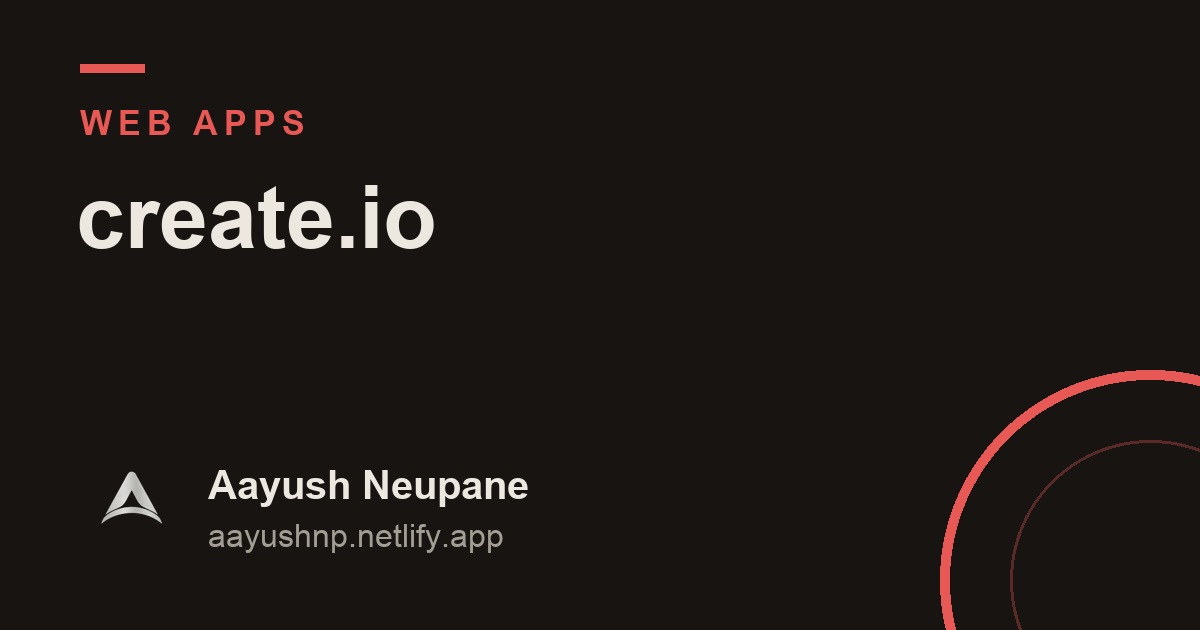
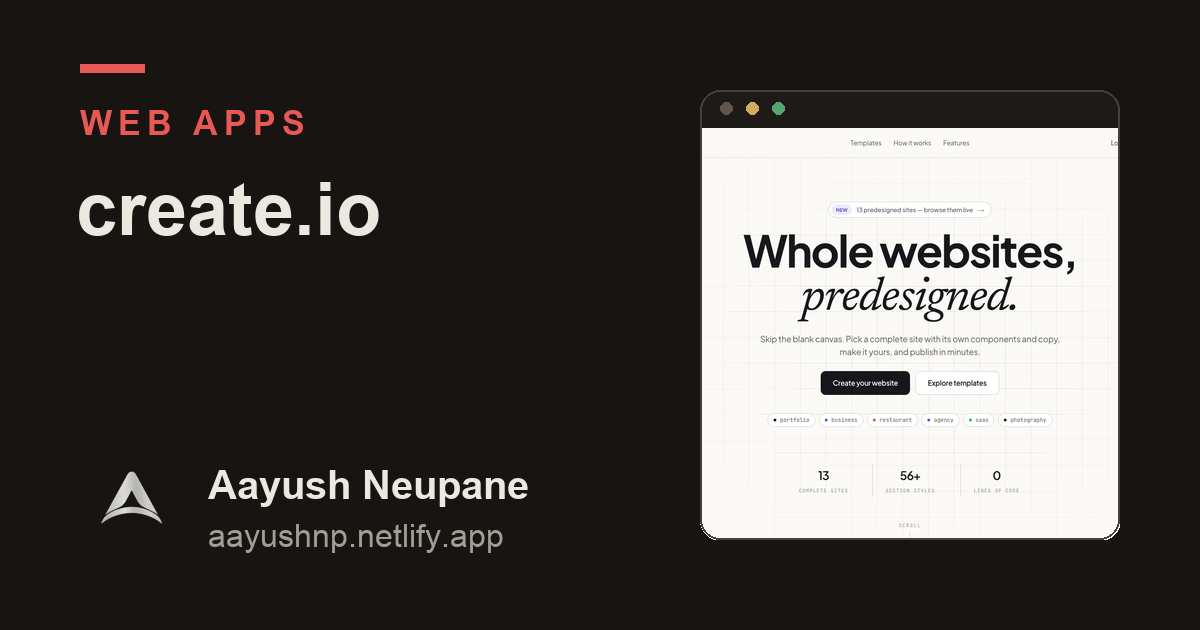
Circular accent dial, OG cards with screenshots

Changed region(s): [[0.5858, 0.1206, 1.0, 1.0], [0.0617, 0.2714, 0.37, 0.3921]]

diff --git a/src/components/ThemeToggle/AccentPicker.jsx b/src/components/ThemeToggle/AccentPicker.jsx
@@ -1,22 +1,41 @@
 import { ACCENTS, useSettings } from '../../context/SettingsContext.jsx';
 
-// Trial: each accent is a tiny orbit — a planet dot with a faint ring that
-// turns into a spinning dashed orbit with a satellite when active. Reuses
-// the loader's orbit animation (already reduced-motion safe). Self-contained:
-// delete this file, its Navbar imports, and the ACCENTS block in
-// SettingsContext to remove the experiment.
+// Trial: a circular spinner dial — four planet dots at compass points on a
+// slow-spinning dashed orbit (reuses the loader's reduced-motion-safe
+// animation). Clicking a planet selects that accent; the satellite rides the
+// active color. Self-contained: delete this file, its Navbar imports, and
+// the ACCENTS block in SettingsContext to remove the experiment.
+const ORDER = ['crimson', 'amber', 'emerald', 'indigo'];
+const SPOTS = {
+  crimson: 'left-1/2 top-0 -translate-x-1/2',
+  amber: 'right-0 top-1/2 -translate-y-1/2',
+  emerald: 'left-1/2 bottom-0 -translate-x-1/2',
+  indigo: 'left-0 top-1/2 -translate-y-1/2',
+};
+
 export default function AccentPicker() {
   const { accent, setAccent } = useSettings();
+  const activeDot = accent === 'crimson' ? '#e85854' : ACCENTS[accent]?.swatch;
 
   return (
     <div
       role="group"
       aria-label="Accent color (trial)"
-      className="flex items-center gap-0.5 rounded-full border border-border bg-elevated px-1.5 py-1"
       title="Accent color — trial"
+      className="relative h-[52px] w-[52px] shrink-0"
     >
-      {Object.entries(ACCENTS).map(([name, def]) => {
-        const active = accent === name;
+      {/* spinning orbit rail */}
+      <span aria-hidden="true" className="loader-orbit-spin absolute inset-[3px]">
+        <span
+          className="absolute -top-[2px] left-1/2 h-1 w-1 -translate-x-1/2 rounded-full"
+          style={{ background: activeDot, boxShadow: `0 0 6px ${activeDot}` }}
+        />
+        <span className="absolute inset-0 rounded-full border border-dashed border-border/60" />
+      </span>
+      {/* planets */}
+      {ORDER.map((name) => {
+        const def = ACCENTS[name];
+        const isActive = accent === name;
         const dot = name === 'crimson' ? '#e85854' : def.swatch;
         return (
           <button
@@ -24,35 +43,20 @@ export default function AccentPicker() {
             type="button"
             onClick={() => setAccent(name)}
             aria-label={`${name} accent`}
-            aria-pressed={active}
+            aria-pressed={isActive}
             title={name}
-            className="relative grid h-7 w-7 place-items-center rounded-full transition-transform duration-150 hover:scale-110"
+            className={`absolute grid h-[22px] w-[22px] place-items-center rounded-full transition-transform duration-150 hover:scale-125 ${SPOTS[name]}`}
           >
             <span
               aria-hidden="true"
-              className="block h-2.5 w-2.5 rounded-full"
+              className="block rounded-full"
               style={{
+                width: isActive ? 11 : 9,
+                height: isActive ? 11 : 9,
                 background: dot,
-                boxShadow: active ? `0 0 10px ${dot}` : undefined,
+                boxShadow: isActive ? `0 0 10px ${dot}` : undefined,
               }}
             />
-            {active ? (
-              <span aria-hidden="true" className="loader-orbit-spin absolute inset-[3px]">
-                <span
-                  className="absolute -top-[2px] left-1/2 h-[3px] w-[3px] -translate-x-1/2 rounded-full"
-                  style={{ background: dot }}
-                />
-                <span
-                  className="absolute inset-0 rounded-full border border-dashed"
-                  style={{ borderColor: dot }}
-                />
-              </span>
-            ) : (
-              <span
-                aria-hidden="true"
-                className="absolute inset-[5px] rounded-full border border-border/60"
-              />
-            )}
           </button>
         );
       })}

diff --git a/scripts/generate_og_cards.py b/scripts/generate_og_cards.py
@@ -78,22 +78,49 @@ def wrap_title(draw, title, fnt, max_width, max_lines=3):
     return [ln for ln in lines if ln][:max_lines]
 
 
+def load_shot(project):
+    """Project screenshot as RGB image, or None (missing/unsupported type)."""
+    src = project.get("image") or ""
+    if not src.startswith("/") or src.lower().endswith(".svg"):
+        return None
+    try:
+        return Image.open(ROOT / "public" / src.lstrip("/")).convert("RGB")
+    except OSError:
+        return None
+
+
+def shot_panel(shot):
+    """Browser-framed screenshot tile, returned with its own corner mask."""
+    from PIL import ImageOps
+
+    pw, ph, chrome = 420, 450, 38
+    frame = Image.new("RGB", (pw, ph), (30, 26, 23))
+    frame.paste(ImageOps.fit(shot, (pw, ph - chrome), Image.LANCZOS), (0, chrome))
+    d = ImageDraw.Draw(frame)
+    for i, c in enumerate([(96, 84, 76), (206, 172, 92), (88, 164, 112)]):
+        d.ellipse([20 + i * 26, 12, 32 + i * 26, 24], fill=c)
+    d.rounded_rectangle([0, 0, pw - 1, ph - 1], radius=20,
+                        outline=(72, 63, 55), width=2)
+    mask = Image.new("L", (pw, ph), 0)
+    ImageDraw.Draw(mask).rounded_rectangle([0, 0, pw, ph], radius=20, fill=255)
+    return frame, mask
+
+
 def card(project):
     img = Image.new("RGB", (W, H), BG)
     d = ImageDraw.Draw(img)
-
-    # Accent ring peeking from the bottom-right + thin top rule.
-    d.ellipse([W - 260, H - 260, W + 160, H + 160], outline=ACCENT + (), width=10)
-    d.ellipse([W - 190, H - 190, W + 90, H + 90], outline=(90, 42, 40), width=3)
     d.rectangle([80, 64, 144, 72], fill=ACCENT)
 
-    eyebrow = str(project.get("category") or project.get("status") or "Project").upper()
-    f_eye = font(34)
-    draw_spaced(d, (80, 104), eyebrow[:28], f_eye, ACCENT, tracking=6)
-
-    f_title = font(88)
-    for i, line in enumerate(wrap_title(d, project.get("title") or "Project", f_title, W - 240)):
-        d.text((76, 168 + i * 100), line, font=f_title, fill=TEXT)
+    shot = load_shot(project)
+    if shot is None:
+        # Text-only fallback (no screenshot available).
+        d.ellipse([W - 260, H - 260, W + 160, H + 160], outline=ACCENT, width=10)
+        d.ellipse([W - 190, H - 190, W + 90, H + 90], outline=(90, 42, 40), width=3)
+        text_block(d, project, max_width=W - 240, title_size=88, x=80)
+    else:
+        text_block(d, project, max_width=560, title_size=74, x=80)
+        panel, mask = shot_panel(shot)
+        img.paste(panel, (700, 90), mask)
 
     # Footer lockup: logo + name + site.
     try:
@@ -105,6 +132,15 @@ def card(project):
     d.text((208, H - 168), "Aayush Neupane", font=f_name, fill=TEXT)
     d.text((208, H - 112), "aayushnp.netlify.app", font=f_site, fill=MUTED)
     return img
+
+
+def text_block(d, project, max_width, title_size, x):
+    eyebrow = str(project.get("category") or project.get("status") or "Project").upper()
+    draw_spaced(d, (x, 104), eyebrow[:28], font(34), ACCENT, tracking=6)
+    f_title = font(title_size)
+    for i, line in enumerate(wrap_title(d, project.get("title") or "Project",
+                                        f_title, max_width)):
+        d.text((x - 4, 168 + i * (title_size + 12)), line, font=f_title, fill=TEXT)
 
 
 def main():
